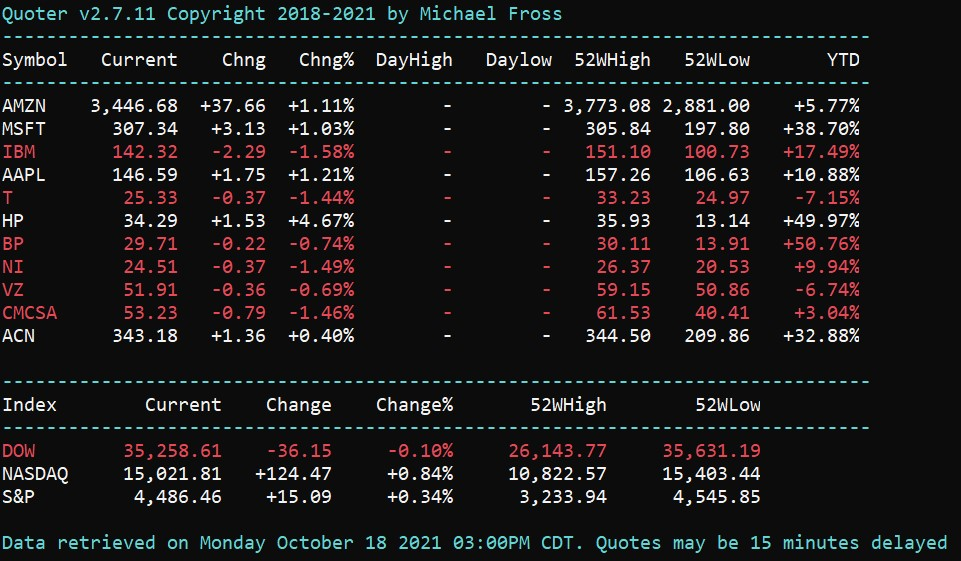
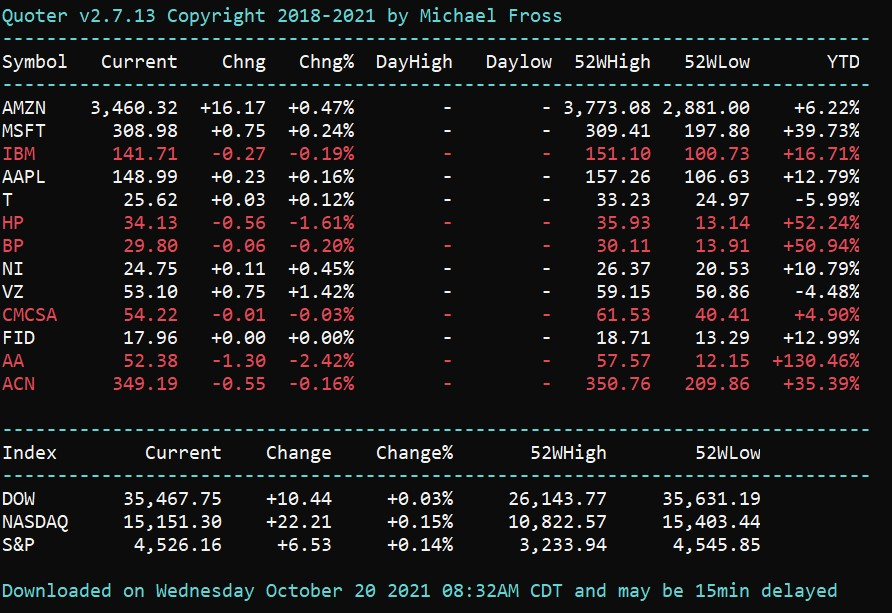
Updated snap to use core20 + screenshot updates

Changed region(s): [[0.0, 0.0, 0.9686, 0.6364], [0.0, 0.697, 0.9686, 0.9091], [0.0, 0.9394, 0.9989, 1.0]]

diff --git a/src/main/java/org/fross/quoter/Main.java b/src/main/java/org/fross/quoter/Main.java
@@ -475,7 +475,7 @@ public class Main {
 			Symbol getTime = new Symbol("IBM", IEXCloudToken);
 			latestTime = getTime.get("latestUpdate");
 		}
-		Output.printColorln(Ansi.Color.CYAN, "\n" + latestTime + " - Data may be 15 minutes delayed");
+		Output.printColorln(Ansi.Color.CYAN, "\nDownloaded on " + latestTime + " and may be 15min delayed");
 
 		// Display detailed stock information if selected with the -d switch
 		if (detailedFlag == true && !symbolList.isEmpty()) {
